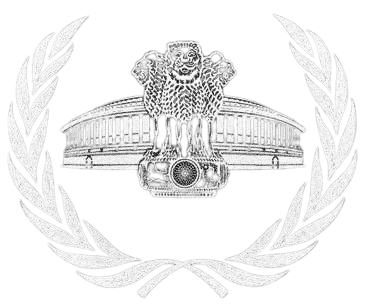
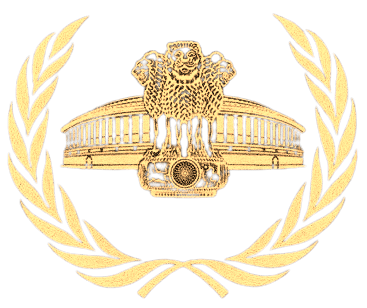
changed the photos

Changed region(s): [[0.0, 0.0292, 0.9891, 0.9643]]

diff --git a/index.html b/index.html
@@ -73,7 +73,7 @@
 
             <div class="row">
                 <div class="offset-md-x">
-                    <img src="./images/mun.png" width="50%">
+                    <img src="./images/MUN_LOGO__6_-removebg-preview.png" width="50%">
                     <div class="description wow fadeInLeftBig">
                         <p class="Gloock" style="color: white;text-align:center">IIIT-G
                         </p>
